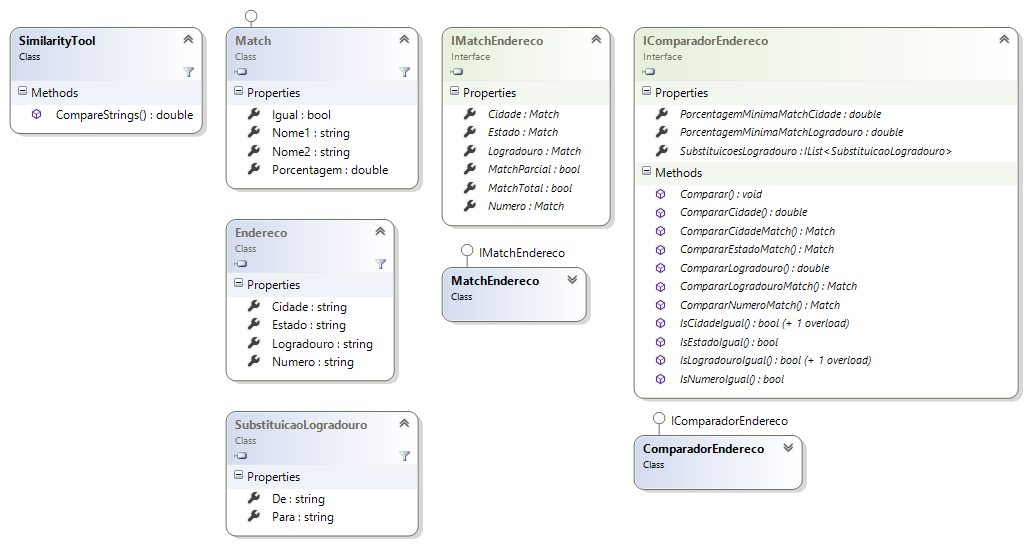
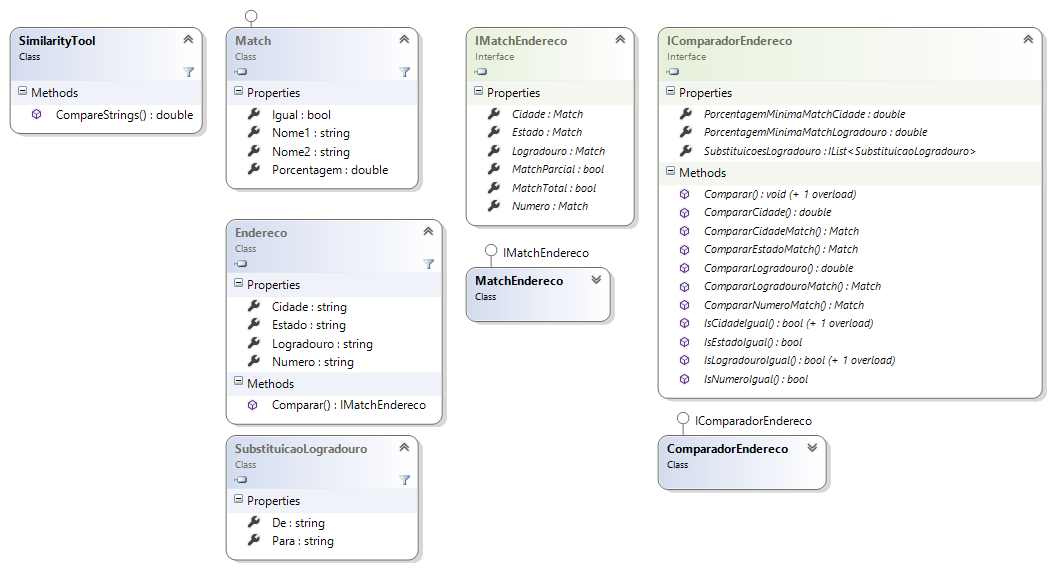
Métodos Endereco.Comparar() e IComparadorEndereco.Comprar() retornando IMatchEndereco.

Changed region(s): [[0.0, 0.0, 0.9971, 1.0]]

diff --git a/Solution/Milaneze.ComparadorDeStrings.Test/Enderecos/ComparadorDeStrings_Comum_Endereco.cs b/Solution/Milaneze.ComparadorDeStrings.Test/Enderecos/ComparadorDeStrings_Comum_Endereco.cs
@@ -1,0 +1,88 @@
+using System;
+using System.Text;
+using System.Collections.Generic;
+using System.Linq;
+using Microsoft.VisualStudio.TestTools.UnitTesting;
+using Milaneze.ComparadorDeStrings.Comum.Enderecos;
+using Milaneze.ComparadorDeStrings.Enderecos;
+
+namespace Milaneze.ComparadorDeStrings.Test.Enderecos
+{
+    /// <summary>
+    /// Summary description for UnitTest1
+    /// </summary>
+    [TestClass]
+    public class ComparadorDeStrings_Comum_Endereco
+    {
+        private static IComparadorEndereco getComparadorEndereco()
+        {
+            IComparadorEndereco comparadorEndereco = new ComparadorEndereco();
+            comparadorEndereco.PorcentagemMinimaMatchLogradouro = 70;
+            comparadorEndereco.PorcentagemMinimaMatchCidade = 80;
+            comparadorEndereco.SubstituicoesLogradouro = new List<SubstituicaoLogradouro>()
+            {
+                new SubstituicaoLogradouro(
+                    de: "avenida",
+                    para: "av"),
+
+                new SubstituicaoLogradouro(
+                    de: "praça",
+                    para: "pc"),
+
+                new SubstituicaoLogradouro(
+                    de: "rua",
+                    para: "r"),
+
+                new SubstituicaoLogradouro(
+                    de: "engenheiro",
+                    para: "eng")
+            };
+
+            return comparadorEndereco;
+        }
+
+        [TestMethod]
+        public void Endereco_Comparar_Ok()
+        {
+            IComparadorEndereco comparadorEndereco = getComparadorEndereco();
+
+            Endereco endereco1 = new Endereco(
+                logradouro: "Praça Amarildo Pereira",
+                numero: "8",
+                cidade: "São Paulo",
+                estado: "SP");
+
+            Endereco endereco2 = new Endereco(
+                logradouro: "Pc Amarildo Pereira",
+                numero: "08",
+                cidade: "sao paulo",
+                estado: "sp");
+
+            IMatchEndereco matchEndereco = endereco1.Comparar(endereco2, comparadorEndereco);
+
+            Assert.IsTrue(matchEndereco.MatchParcial && matchEndereco.MatchTotal);
+        }
+
+        [TestMethod]
+        public void Endereco_Comparar_NaoOk()
+        {
+            IComparadorEndereco comparadorEndereco = getComparadorEndereco();
+
+            Endereco endereco1 = new Endereco(
+                logradouro: "Praça Amarildo Pereira",
+                numero: "8",
+                cidade: "São Paulo",
+                estado: "SP");
+
+            Endereco endereco2 = new Endereco(
+                logradouro: "Pc Amarildo Pereira",
+                numero: "08",
+                cidade: "sao paulo",
+                estado: "sp");
+
+            IMatchEndereco matchEndereco = endereco1.Comparar(endereco2, comparadorEndereco);
+
+            Assert.IsTrue(matchEndereco.MatchParcial && matchEndereco.MatchTotal);
+        }
+    }
+}

diff --git a/Solution/Milaneze.ComparadorDeStrings.Test/Enderecos/ComparadorDeStrings_ComparadorEndereco.cs b/Solution/Milaneze.ComparadorDeStrings.Test/Enderecos/ComparadorDeStrings_ComparadorEndereco.cs
@@ -34,6 +34,7 @@ namespace Milaneze.ComparadorDeStrings.Test.Enderecos
                     de: "engenheiro",
                     para: "eng")
             };
+
             return comparadorEndereco;
         }
 
@@ -824,6 +825,50 @@ namespace Milaneze.ComparadorDeStrings.Test.Enderecos
         }
 
         [TestMethod]
+        public void ComparadorDeStrings_Comparar_NaoOk_RetornoMatch()
+        {
+            IComparadorEndereco comparadorEndereco = getComparadorEndereco();
+
+            Endereco endereco1 = new Endereco(
+                logradouro: "Praça Amarildo Pereira",
+                numero: "8",
+                cidade: "São Paulo",
+                estado: "SP");
+
+            Endereco endereco2 = new Endereco(
+                logradouro: "Avenida Treze de Maio",
+                numero: "12",
+                cidade: "sao paulo",
+                estado: "sp");
+
+            IMatchEndereco matchEndereco = comparadorEndereco.Comparar(endereco1, endereco2);
+
+            Assert.IsTrue(!matchEndereco.MatchParcial && !matchEndereco.MatchTotal);
+        }
+
+        [TestMethod]
+        public void ComparadorDeStrings_Comparar_Ok_RetornoMatch()
+        {
+            IComparadorEndereco comparadorEndereco = getComparadorEndereco();
+
+            Endereco endereco1 = new Endereco(
+                logradouro: "Praça Amarildo Pereira",
+                numero: "8",
+                cidade: "São Paulo",
+                estado: "SP");
+
+            Endereco endereco2 = new Endereco(
+                logradouro: "Pc Amarildo Pereira",
+                numero: "08",
+                cidade: "sao paulo",
+                estado: "sp");
+
+            IMatchEndereco matchEndereco = comparadorEndereco.Comparar(endereco1, endereco2);
+
+            Assert.IsTrue(matchEndereco.MatchParcial && matchEndereco.MatchTotal);
+        }
+
+        [TestMethod]
         public void ComparadorDeStrings_ComparadorEndereco_CompararLogradouro_Avulso001()
         {
             IComparadorEndereco comparadorEndereco = getComparadorEndereco();
@@ -836,7 +881,5 @@ namespace Milaneze.ComparadorDeStrings.Test.Enderecos
 
             Assert.AreEqual<double>(esperado, resultado);
         }
-
-        
     }
 }

diff --git a/Solution/Milaneze.ComparadorDeStrings.Comum/Enderecos/IComparadorEndereco.cs b/Solution/Milaneze.ComparadorDeStrings.Comum/Enderecos/IComparadorEndereco.cs
@@ -30,6 +30,13 @@ namespace Milaneze.ComparadorDeStrings.Comum.Enderecos
         void Comparar(Endereco endereco1, Endereco endereco2, IMatchEndereco matchEndereco);
 
         /// <summary>
+        /// Compara dois endereços.
+        /// </summary>
+        /// <param name="endereco1">Endereço 1.</param>
+        /// <param name="endereco2">Endereço 2.</param>
+        IMatchEndereco Comparar(Endereco endereco1, Endereco endereco2);
+
+        /// <summary>
         /// Compara dois nomes de cidades.
         /// </summary>
         /// <param name="cidade1">Cidade 1.</param>

diff --git a/Solution/Milaneze.ComparadorDeStrings/Enderecos/ComparadorEndereco.cs b/Solution/Milaneze.ComparadorDeStrings/Enderecos/ComparadorEndereco.cs
@@ -195,5 +195,14 @@ namespace Milaneze.ComparadorDeStrings.Enderecos
             matchEndereco.Cidade = CompararCidadeMatch(endereco1.Cidade, endereco2.Cidade);
             matchEndereco.Estado = CompararEstadoMatch(endereco1.Estado, endereco2.Estado);
         }
+
+        public IMatchEndereco Comparar(Endereco endereco1, Endereco endereco2)
+        {
+            IMatchEndereco matchEndereco = new MatchEndereco();
+
+            Comparar(endereco1, endereco2, matchEndereco);
+
+            return matchEndereco;
+        }
     }
 }

diff --git a/Solution/Milaneze.ComparadorDeStrings.Comum/Properties/AssemblyInfo.cs b/Solution/Milaneze.ComparadorDeStrings.Comum/Properties/AssemblyInfo.cs
@@ -32,5 +32,5 @@ using System.Runtime.InteropServices;
 // You can specify all the values or you can default the Build and Revision Numbers 
 // by using the '*' as shown below:
 // [assembly: AssemblyVersion("1.0.*")]
-[assembly: AssemblyVersion("1.1.0.0")]
-[assembly: AssemblyFileVersion("1.1.0.0")]
+[assembly: AssemblyVersion("1.2.0.0")]
+[assembly: AssemblyFileVersion("1.2.0.0")]

diff --git a/Solution/Milaneze.ComparadorDeStrings/Properties/AssemblyInfo.cs b/Solution/Milaneze.ComparadorDeStrings/Properties/AssemblyInfo.cs
@@ -32,5 +32,5 @@ using System.Runtime.InteropServices;
 // You can specify all the values or you can default the Build and Revision Numbers 
 // by using the '*' as shown below:
 // [assembly: AssemblyVersion("1.0.*")]
-[assembly: AssemblyVersion("1.1.0.0")]
-[assembly: AssemblyFileVersion("1.1.0.0")]
+[assembly: AssemblyVersion("1.2.0.0")]
+[assembly: AssemblyFileVersion("1.2.0.0")]

diff --git a/Solution/Milaneze.ComparadorDeStrings.Comum/Enderecos/Endereco.cs b/Solution/Milaneze.ComparadorDeStrings.Comum/Enderecos/Endereco.cs
@@ -19,5 +19,10 @@ namespace Milaneze.ComparadorDeStrings.Comum.Enderecos
             Cidade = cidade;
             Estado = estado;
         }
+
+        public IMatchEndereco Comparar(Endereco endereco2, IComparadorEndereco comparadorEndereco)
+        {
+            return comparadorEndereco.Comparar(this, endereco2);
+        }
     }
 }

diff --git a/README.md b/README.md
@@ -22,19 +22,56 @@ Console.WriteLine("% Match: {0}", porcentagemMatch); // % Match: 93,61 >> pela f
 
 ## Exemplo 2
 ```
+Endereco endereco1 = new Endereco(
+	cidade: "São Paulo",
+	estado: "SP",
+	logradouro: "Avenida 23 de Maio",
+	numero: "110");
+
+Endereco endereco2 = new Endereco(
+	cidade: "Sao Paulo", // sem ~ (til)
+	estado: "SP",
+	logradouro: "Avenida Vinte e Três de Maio", // número por extenso
+	numero: "110");
+
+
 IComparadorEndereco comparador = new ComparadorEndereco(
-   porcentagemMinimaMatchLogradouro: 90,
-   porcentagemMinimaMatchCidade: 90,
-   substituicoesLogradouro: new List<SubstituicaoLogradouro>()
-   {
-	   new SubstituicaoLogradouro(
-		   de: "Avenida",
-		   para: "Av"),
-	   new SubstituicaoLogradouro(
-		   de: "Av.",
-		   para: "Av")
-   }
-);
+	porcentagemMinimaMatchLogradouro: 90,
+	porcentagemMinimaMatchCidade: 90,
+	substituicoesLogradouro: new List<SubstituicaoLogradouro>()
+	{
+		new SubstituicaoLogradouro(
+			de: "Avenida",
+			para: "Av"),
+		new SubstituicaoLogradouro(
+			de: "Av.",
+			para: "Av")
+	});
+
+IMatchEndereco matchEndereco = comparador.Comparar(endereco1, endereco2);
+
+
+Console.WriteLine(
+	matchEndereco.MatchTotal
+	? "Endereços iguais." // esse será o resultado mostrado
+	: "Endereços diferentes.");
+```
+
+## Exemplo 2
+```
+IComparadorEndereco comparador = new ComparadorEndereco(
+	porcentagemMinimaMatchLogradouro: 90,
+	porcentagemMinimaMatchCidade: 90,
+	substituicoesLogradouro: new List<SubstituicaoLogradouro>()
+	{
+		new SubstituicaoLogradouro(
+			de: "Avenida",
+			para: "Av"),
+		new SubstituicaoLogradouro(
+			de: "Av.",
+			para: "Av")
+	});
+
 
 Endereco endereco1 = new Endereco(
 	cidade: "São Paulo",
@@ -48,12 +85,14 @@ Endereco endereco2 = new Endereco(
 	logradouro: "Avenida Vinte e Três de Maio", // número por extenso
 	numero: "110");
 
-IMatchEndereco matchEndereco = new MatchEndereco();
 
-comparador.Comparar(endereco1, endereco2, matchEndereco);
+IMatchEndereco matchEndereco = endereco1.Comparar(endereco2, comparador);
+
 
 Console.WriteLine(
 	matchEndereco.MatchTotal
 	? "Endereços iguais." // esse será o resultado mostrado
 	: "Endereços diferentes.");
 ```
+
+https://raw.githubusercontent.com/ericmilaneze/Milaneze.ComparadorDeStrings/master/Solution/ClassDiagram.png
